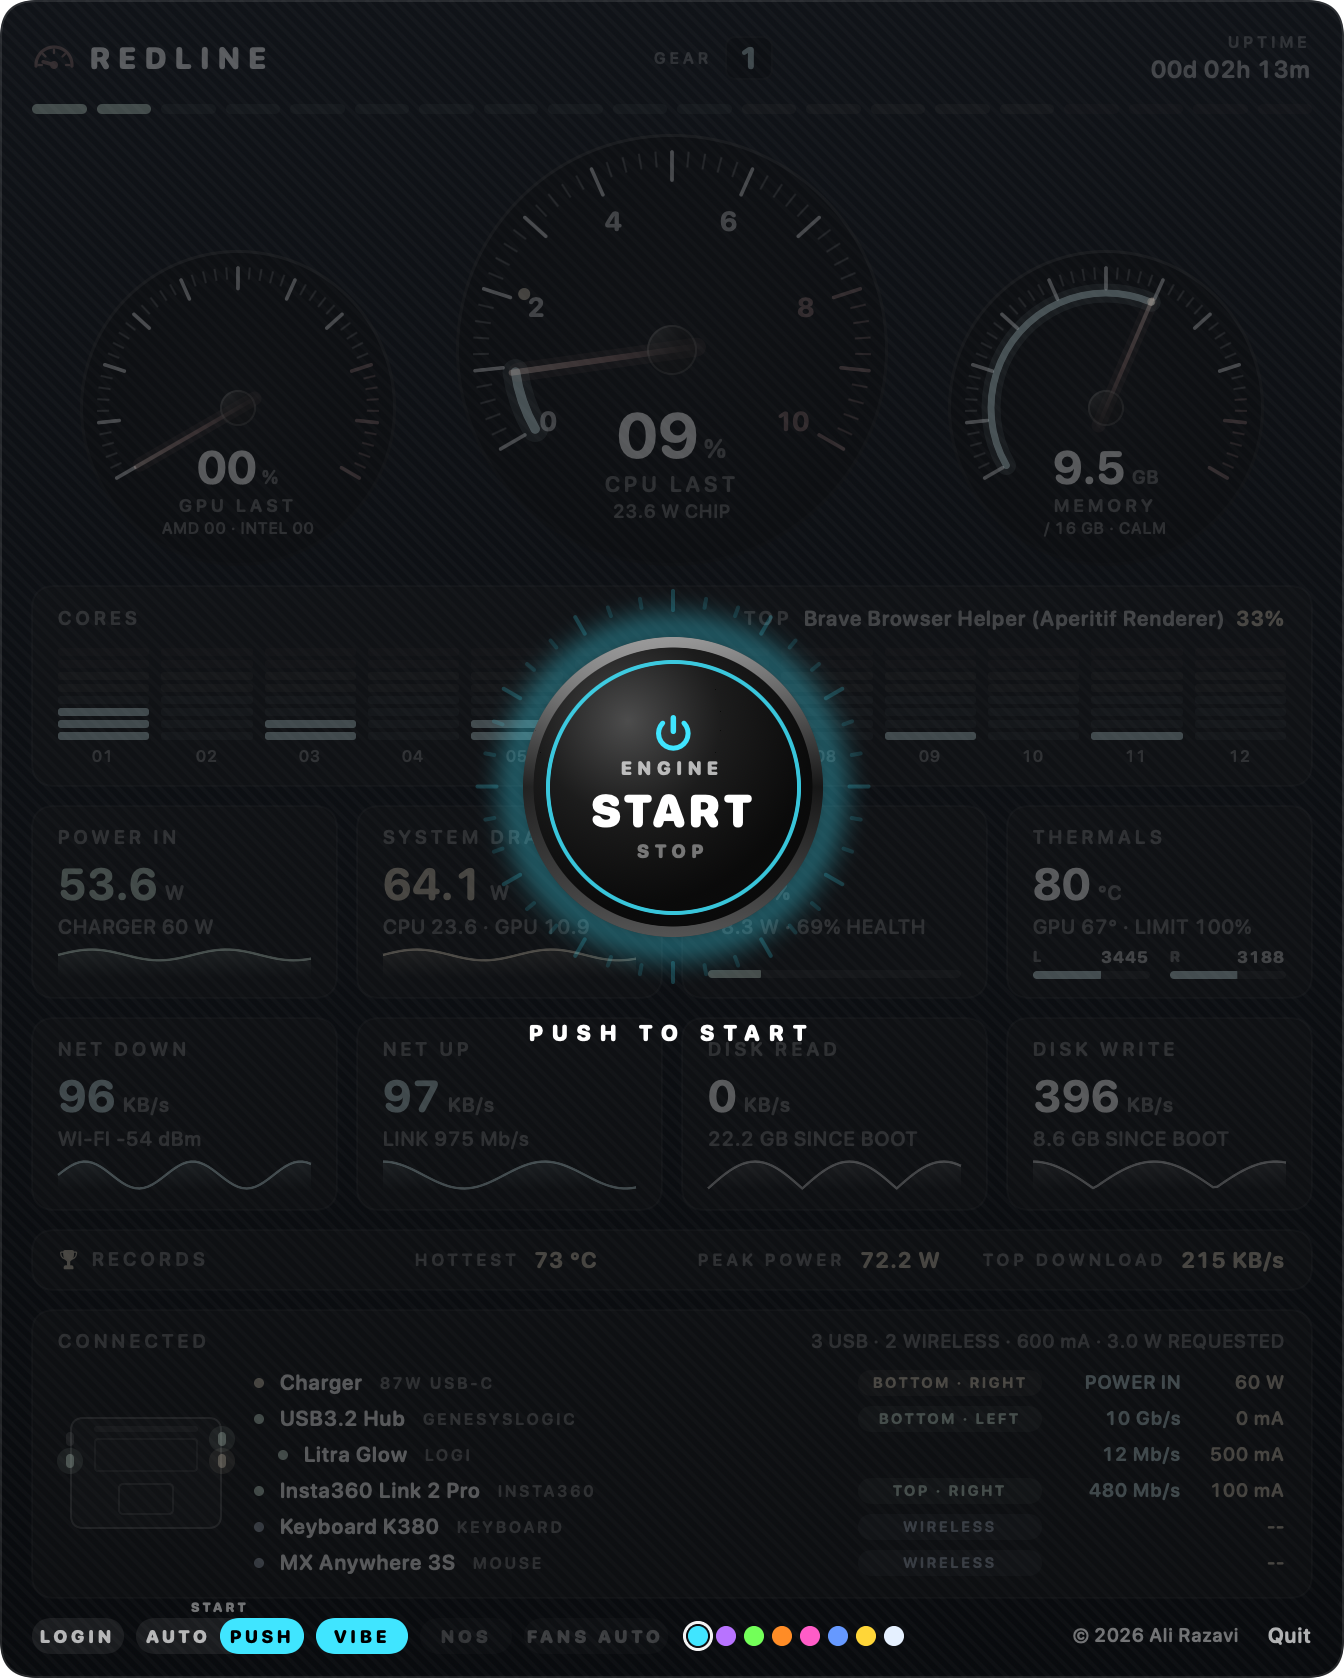
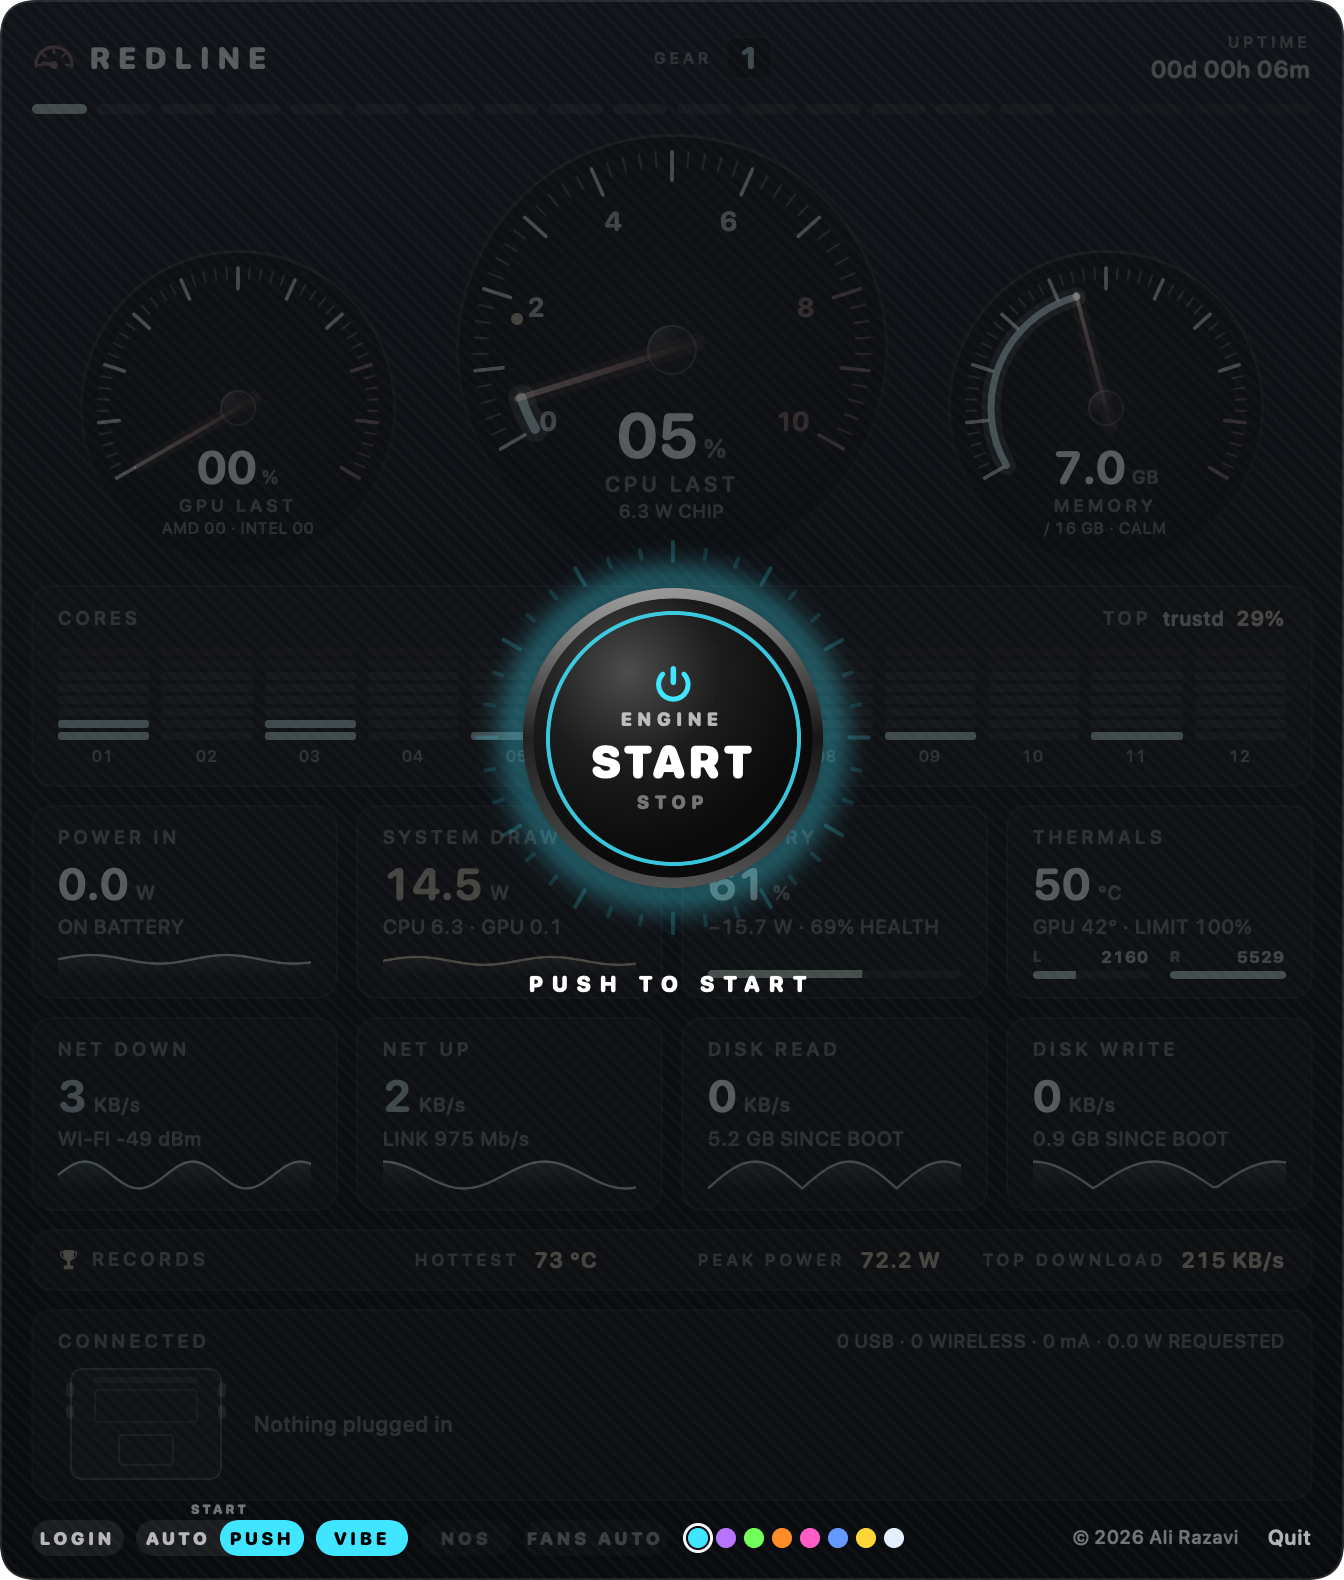
Start straight away at log-in: remove the wait-until-quiet delay that kept Redline hidden after a restart

diff --git a/src/main.swift b/src/main.swift
@@ -1747,28 +1747,7 @@ final class AppDelegate: NSObject, NSApplicationDelegate {
     private let sticky = ProcessInfo.processInfo.environment["REDLINE_STICKY"] != nil   // testing only: stay open
 
     func applicationDidFinishLaunching(_ n: Notification) {
-        // Started at log-in? Then wait our turn: macOS, drivers and the other apps load first, Redline comes in quietly afterwards.
-        guard let since = sessionAge(), since < 180 || ProcessInfo.processInfo.environment["REDLINE_LOGIN_TEST"] != nil else { boot(); return }
-        waitForQuiet(since: Date().addingTimeInterval(-since))
-    }
-    /// Seconds since this log-in session began (the Dock starts with it), or nil if that cannot be read.
-    private func sessionAge() -> Double? {
-        guard let dock = NSRunningApplication.runningApplications(withBundleIdentifier: "com.apple.dock").first else { return nil }
-        var info = kinfo_proc(), size = MemoryLayout<kinfo_proc>.stride, mib = [CTL_KERN, KERN_PROC, KERN_PROC_PID, dock.processIdentifier]
-        guard sysctl(&mib, 4, &info, &size, nil, 0) == 0, size > 0 else { return nil }
-        let t = info.kp_proc.p_un.__p_starttime
-        return Date().timeIntervalSince1970 - (Double(t.tv_sec) + Double(t.tv_usec) / 1e6)
-    }
-    /// Checks every 5 seconds, doing nothing else: starts once the session is 45 s old and the Mac has calmed down
-    /// (1-minute load below half its cores), and in any case after 2.5 minutes.
-    private func waitForQuiet(since login: Date) {
-        let cores = Double(ProcessInfo.processInfo.activeProcessorCount)
-        Timer.scheduledTimer(withTimeInterval: 5, repeats: true) { [weak self] t in
-            let age = -login.timeIntervalSinceNow
-            var load = [Double](repeating: 0, count: 3); getloadavg(&load, 3)
-            guard age >= 150 || (age >= 45 && load[0] < cores * 0.5) else { return }
-            t.invalidate(); self?.boot()
-        }
+        boot()      // start straight away, also at log-in (the old "wait until the Mac is quiet" delay kept it hidden after restarts)
     }
     private var gate: Card?
     private func boot() {

diff --git a/README.md b/README.md
@@ -34,7 +34,7 @@ Copyright (c) 2026 Ali Razavi. All rights reserved. See `LICENSE`.
 - Click the needle in the menu bar to open the card.
 - **Engine**: with the engine off the Mac is exactly as Apple made it (Apple's Touch Bar, macOS fans, normal sleep). Starting it brings back your last look, VIBE, NOS, fans and the Touch Bar. The power button in the card's header switches it off.
 - **START · AUTO / PUSH** (footer): AUTO starts the engine by itself when Redline loads, with no rev. PUSH (default) shows a push-to-start window instead; pressing it revs the needles and the Touch Bar (two blips, then the redline) and switches everything on. The rev happens only then, never when the card is merely opened.
-- At log-in Redline waits its turn: it starts once the session is 45 seconds old and the Mac has calmed down, at the latest after 2.5 minutes.
+- At log-in Redline starts straight away, with no waiting.
 - Drag the card by its background to move it. It has one fixed size.
 - Click anywhere outside the card, or press Esc, to close it.
 - **VIBE**: club lighting behind the dials, driven by whatever the Mac is playing: waves, a glow behind each dial, rings off the big dial on every kick, a strobe, and mirrored sparks that are released on the beat and rise higher when the music lifts. It listens only while the card is open and VIBE is on; the sound is not changed, stored or sent anywhere.
